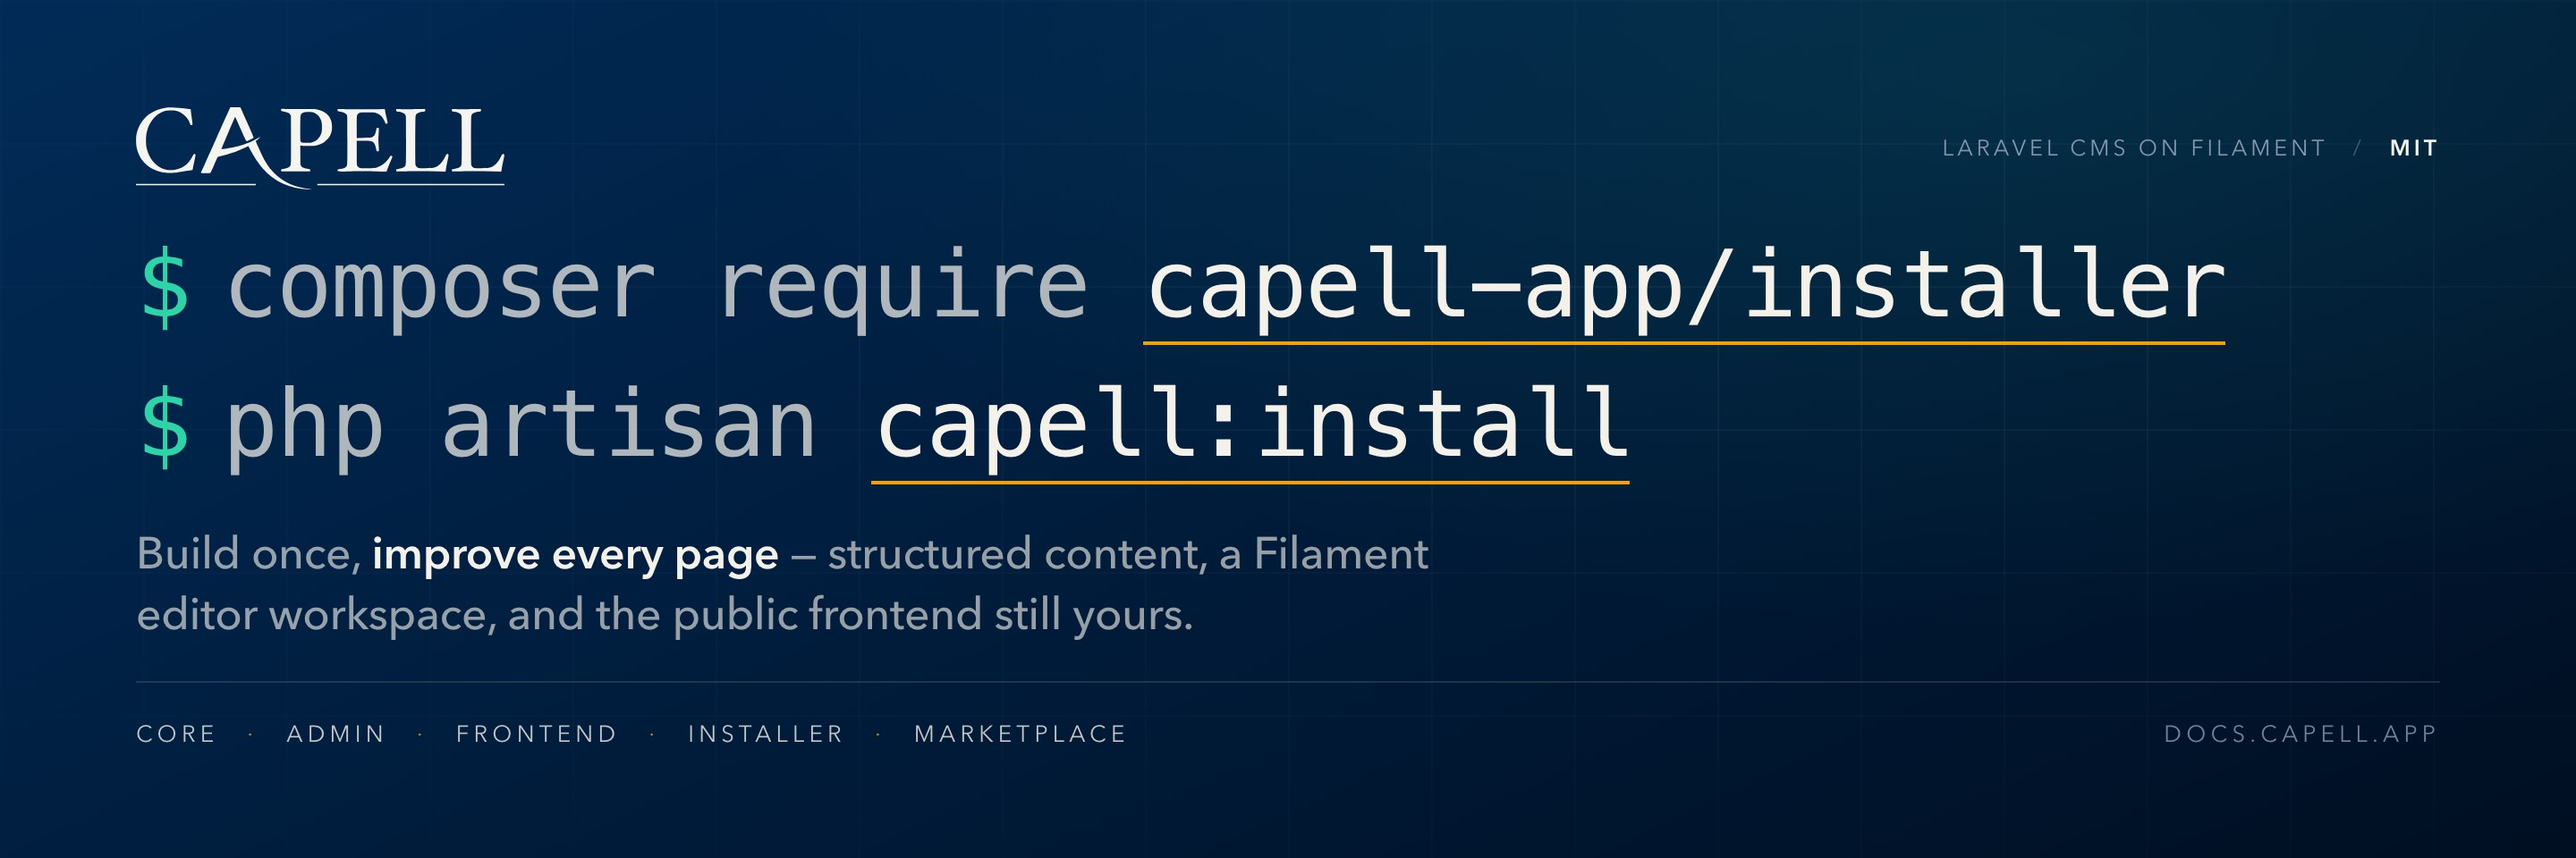
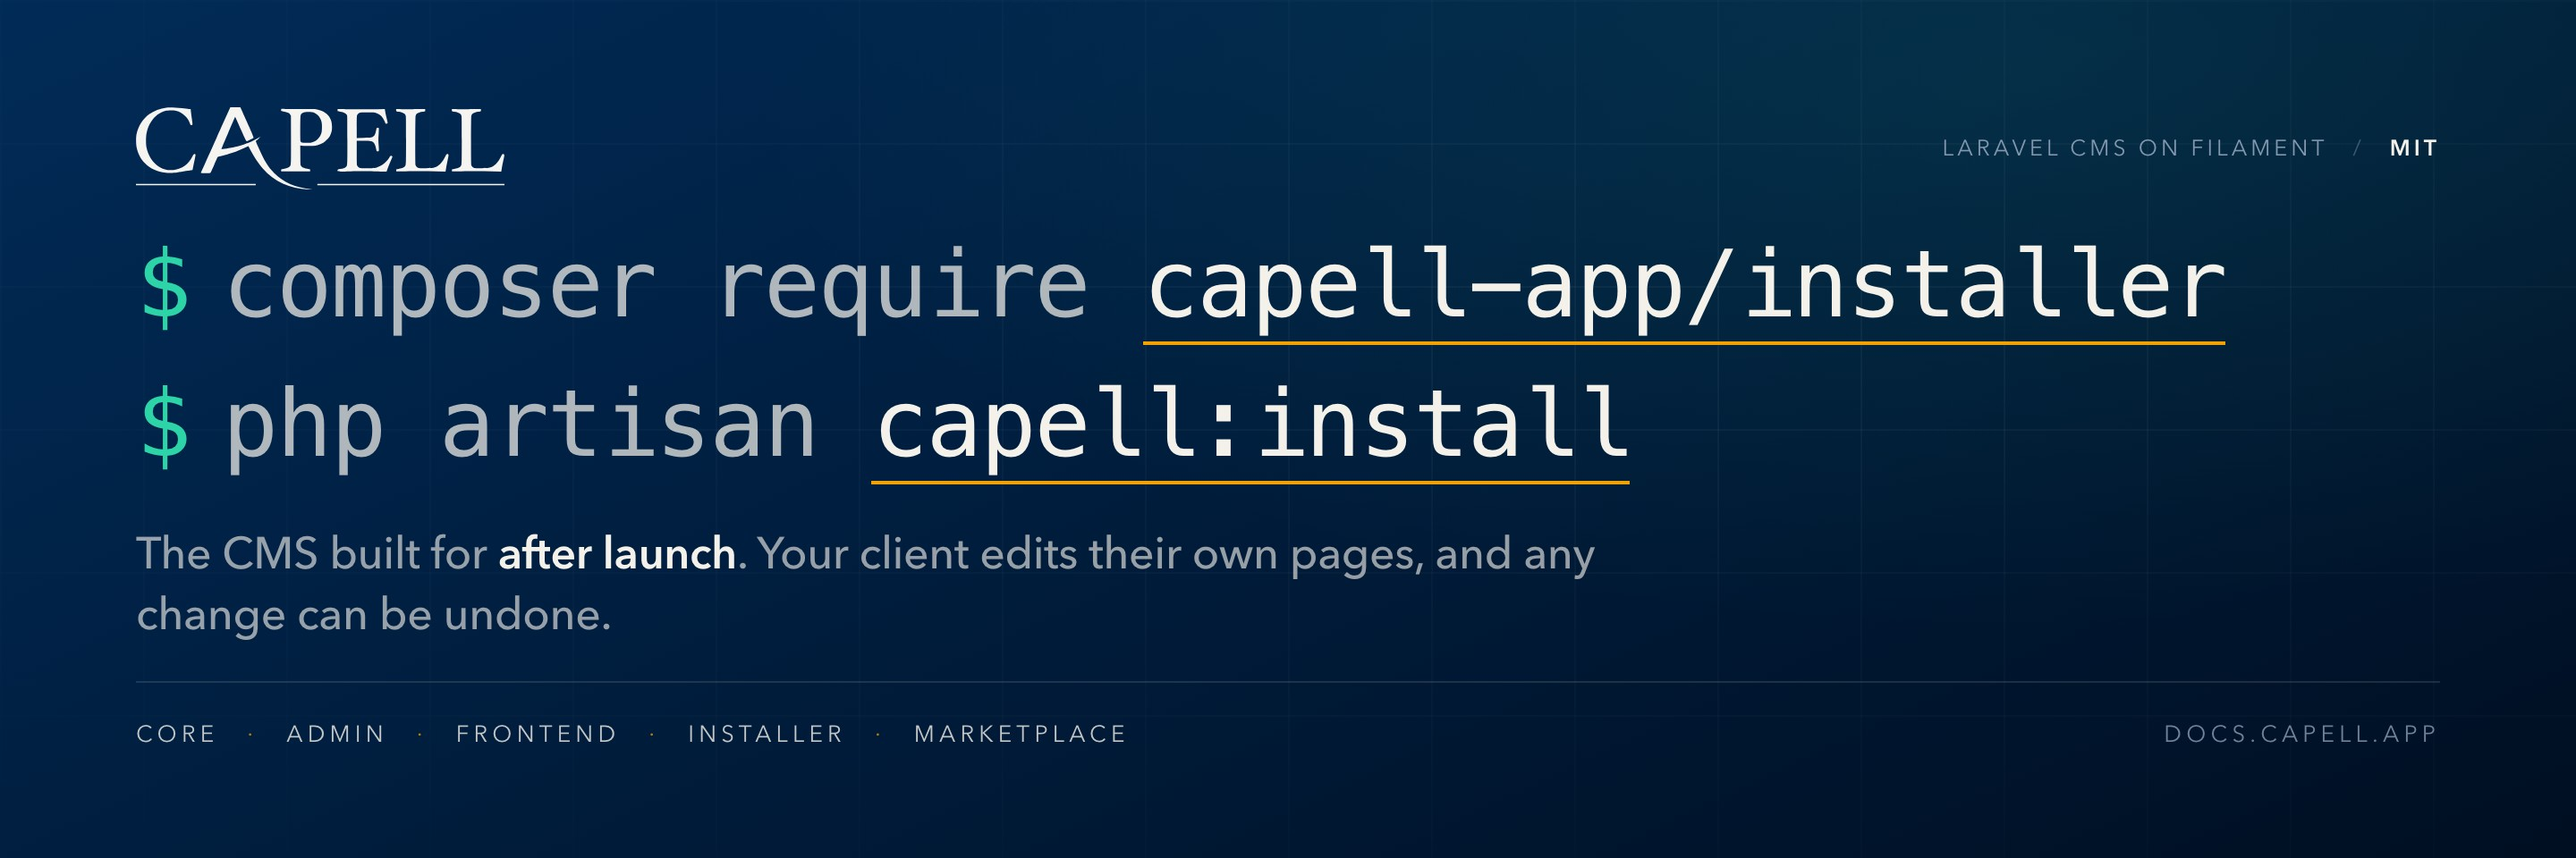
docs: replace jargon with plain language in the front-door copy
The banner and README opening described how Capell is built rather than
what changes for the people using it. "Structured content", "Filament
editor workspace" and "the public frontend still yours" are all mechanism,
and none of them answer why a non-technical reader should care.

- Banner now leads with the consequence: the CMS built for after launch,
  your client edits their own pages, and any change can be undone
- README opens on who does the editing and what happens when it goes
  wrong, then states plainly that Foundation is free, MIT-licensed and
  installed from Packagist like any other Composer package
- The screenshot table headers become "Editing a page" and "What visitors
  see"; the fit guide opens in plain language; /admin is described as the
  admin where editors work

Left deliberately unchanged: docs/packages/extension-surface-vocabulary.md
defines "Editor workspace" as a term the package-authoring contracts use,
comparing-capell.md uses "structured content modelling" to describe Craft
rather than Capell, and building-pages.md names an actual feature. The
sentence pinned by scripts/check-root-docs.php is also retained, since
dropping it would require moving the guard and its fixtures too.

Verified: root docs, docs links and screenshot coverage guards; root
RootDocsScriptTest and the frontend/admin Documentation suites.

Changed region(s): [[0.0312, 0.625, 0.625, 0.75]]

diff --git a/scripts/screenshots/readme-banner.html b/scripts/screenshots/readme-banner.html
@@ -163,7 +163,7 @@
                 font-weight: 500;
                 letter-spacing: -0.008em;
                 color: rgba(244, 241, 234, 0.62);
-                max-width: 760px;
+                max-width: 900px;
             }
 
             .headline em {
@@ -230,9 +230,8 @@
                     </div>
                 </div>
                 <p class="headline">
-                    Build once, <em>improve every page</em> — structured
-                    content, a Filament editor workspace, and the public
-                    frontend still yours.
+                    The CMS built for <em>after launch</em>. Your client edits
+                    their own pages, and any change can be undone.
                 </p>
             </div>
 

diff --git a/README.md b/README.md
@@ -14,9 +14,9 @@
 [![Laravel](https://img.shields.io/badge/Laravel-12.41%2B%20%7C%2013-FF2D20?style=flat-square&logo=laravel&logoColor=white)](#requirements)
 [![Documentation](https://img.shields.io/badge/docs-docs.capell.app-blue?style=flat-square)](https://docs.capell.app)
 
-Every Laravel team eventually rebuilds the same CMS: page trees, URLs, layouts, publishing rules, revision history, media, and an admin to hold it together. **Capell is a Laravel CMS built on Filament** that gives that repeated work one maintained home. Editors get a structured page workspace with publishing, preview, and recovery; developers keep the public frontend, deployment, and application architecture inside Laravel.
+**Capell is a Laravel CMS built on Filament** for teams whose website has to keep changing after it launches. The people who own the content edit it themselves instead of queuing behind a developer. Every change is recorded against the person who made it, and any page can be put back the way it was. Editors get an admin they can learn in an afternoon; developers keep the public frontend, deployment, and application architecture inside Laravel.
 
-We built Capell around one idea: build once, improve every page. Define shared page types, layouts, URLs, and publishing rules a single time, then improve them in one place instead of across every page that copied them. Start with the free, MIT-licensed **Capell Foundation**, then grow through an ecosystem of verified Laravel packages — search, SEO, publishing workflow, forms, themes, and more — each one a normal Composer package whose migrations, data access, and removal path you can inspect before it installs. Browse the whole catalogue, including the ten headline features, at [capell.app/features](https://capell.app/features).
+Start with **Capell Foundation**: free, MIT-licensed, and installed from Packagist like any other Composer package. Then add only what a project actually needs — search, SEO, publishing approvals, forms, themes — each one an ordinary Laravel package whose migrations, data access, and removal path you can read before it installs. See what is available at [capell.app/features](https://capell.app/features).
 
 Capell is not a hosted CMS and does not ship a public content-delivery API. Your pages render inside your Laravel application through Blade, Livewire, Inertia, Vue, or your own stack.
 
@@ -28,7 +28,7 @@ These captures show Capell administering [capell.app](https://capell.app) — th
 
 ![Capell Pages list showing real published pages with publish states, layouts, and SEO overview](docs/images/capell-app-pages-list.png)
 
-| Edit structured page content                                                                                             | The public result, rendered by your Laravel app                                                               |
+| Editing a page                                                                                                           | What visitors see                                                                                             |
 | ------------------------------------------------------------------------------------------------------------------------ | ------------------------------------------------------------------------------------------------------------- |
 | ![Capell page editor with real page content, publishing state, and AI assistant](docs/images/capell-app-page-editor.png) | ![The capell.app public homepage rendered by the Capell frontend](docs/images/capell-app-public-homepage.jpg) |
 

diff --git a/docs/getting-started/why-capell.md b/docs/getting-started/why-capell.md
@@ -2,9 +2,9 @@
 
 ![Capell, an MIT-licensed Laravel CMS built on Filament, installed with composer require capell-app/installer and php artisan capell:install](../images/capell-readme-banner.jpg)
 
-Capell is a Laravel CMS built on Filament. It is for teams that want editors to manage structured pages, URLs, media, layouts, and publishing without moving the product into a separate CMS runtime.
+Capell is a Laravel CMS built on Filament. It lets the people who own a website's content manage its pages, addresses, images, and publishing themselves, without moving the whole product into a separate CMS.
 
-Its strongest practical difference is not another field builder. Capell makes change safer: page edits have append-only history and validated page-only rollback, while package upgrades can be planned, recorded, diagnosed, and rolled back when an upgrade step declares a safe reverse operation.
+Its strongest practical difference is not another field builder. Capell makes change safer. Every page edit is kept, so a page can be compared against an earlier version and put back. Upgrades can be previewed before they run, are recorded when they do, and can be reversed where a step says that is safe.
 
 ## The decision in one minute
 
@@ -31,7 +31,7 @@ Capell is not hosted software and does not ship a public content-delivery API. P
 | Laravel remains responsible for                      | Capell adds                                                                                         |
 | ---------------------------------------------------- | --------------------------------------------------------------------------------------------------- |
 | Application domain models and services               | Sites, languages, page trees, URLs, layouts, themes, media contracts, translations, and settings    |
-| Authentication and infrastructure                    | Filament editor workspace, roles, page publishing, preview, and page recovery UI                    |
+| Authentication and infrastructure                    | The admin editors work in, roles, page publishing, preview, and page recovery                       |
 | Queues, cache, scheduler, filesystem, and deployment | Package health, lifecycle, upgrade planning, and CMS-specific diagnostics                           |
 | Public controllers and presentation choices          | Site context, public page resolution, render hooks, theme assets, and cache-safe delivery contracts |
 | Database and media disaster recovery                 | Page revision history and page-only rollback                                                        |

diff --git a/docs/getting-started/install.md b/docs/getting-started/install.md
@@ -142,7 +142,7 @@ Rerunning `capell:install` is supported after correcting a failed step. Keep the
 
 Run the Laravel application with your normal local workflow, then open:
 
-- `/admin` for the Filament editor workspace;
+- `/admin` for the admin where editors work;
 - `/` for the Capell-owned public page when the welcome route was replaced.
 
 ![Capell Pages list after a healthy install](../images/admin-pages-list.png)
